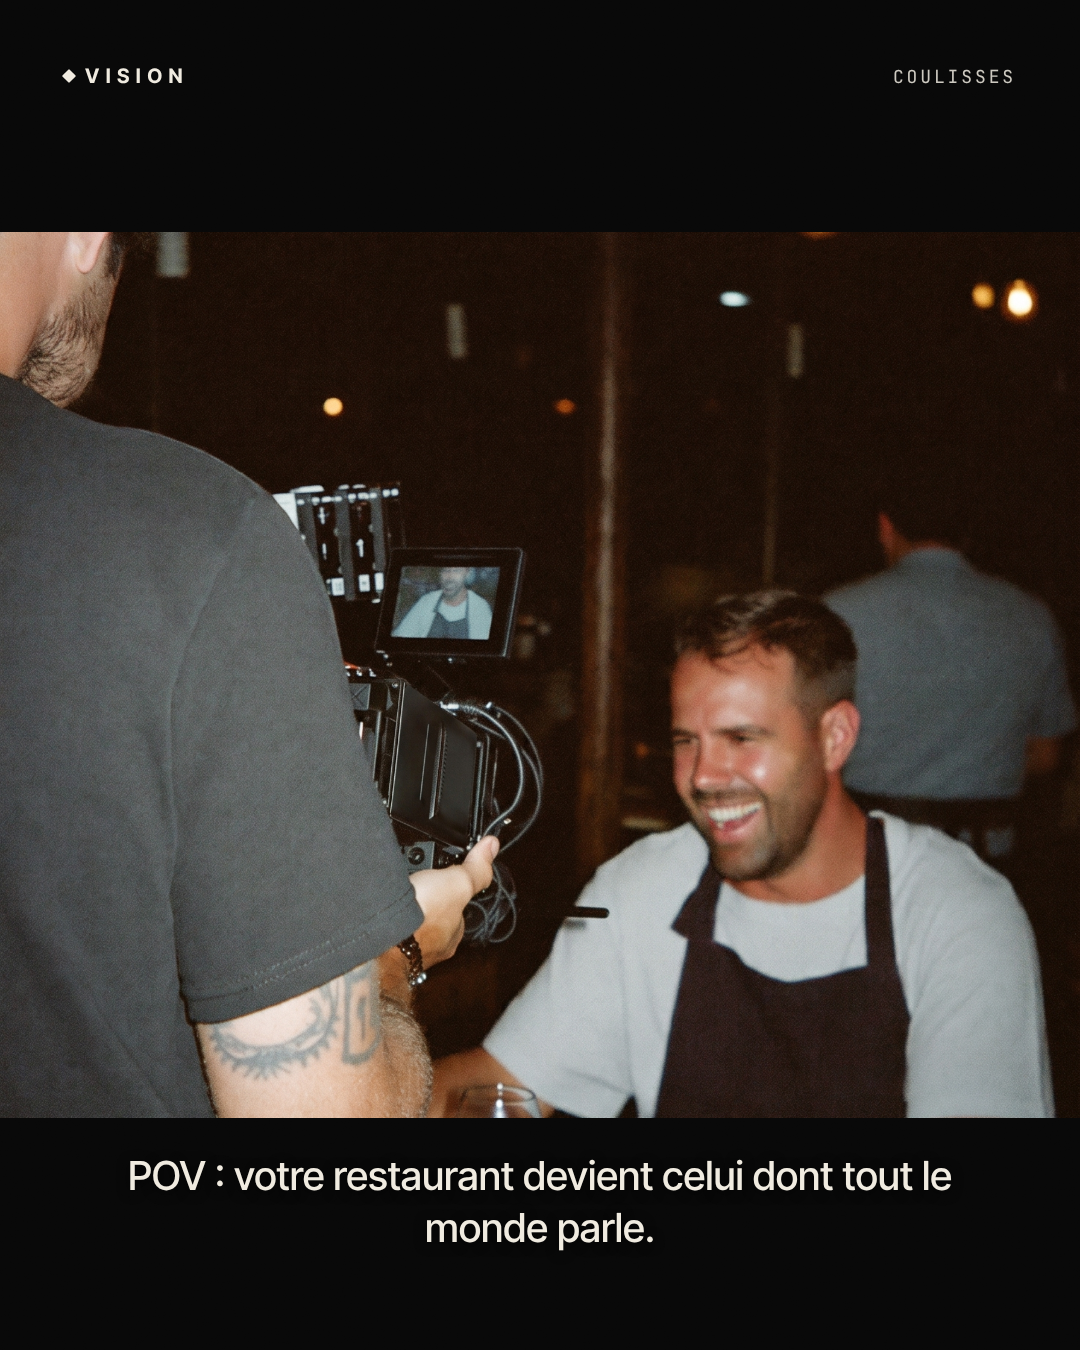
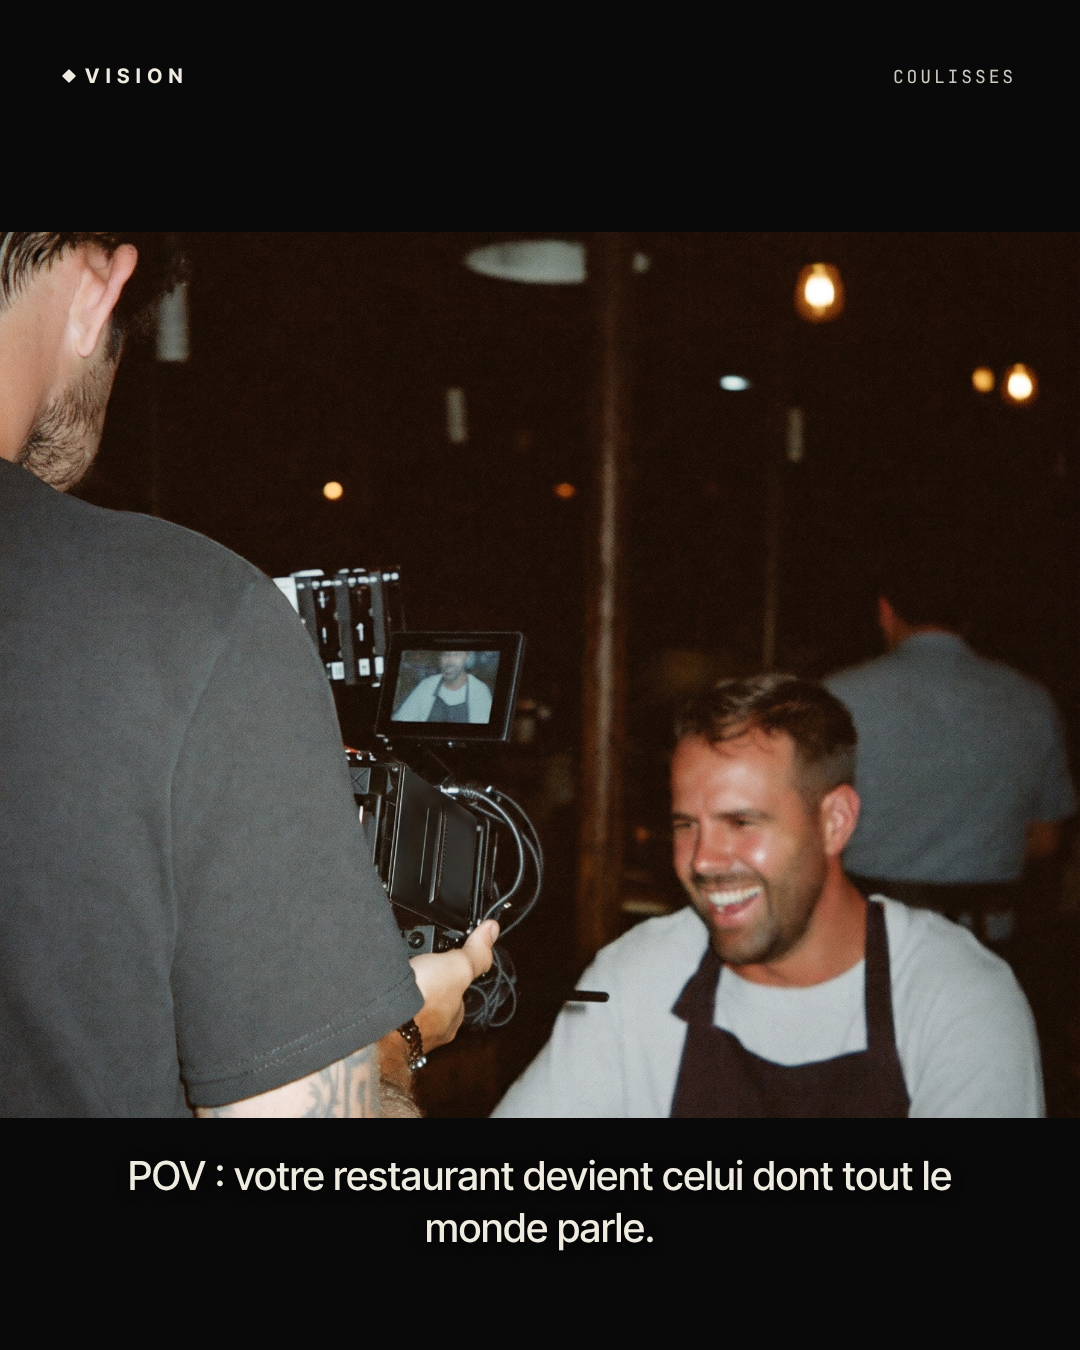
vision-agency: posts 01/15/16 finalisés, étude de cas sans nom de client
Claude-Session: https://claude.ai/code/session_01V1feumjpgTsp4ZvABkd22U

diff --git a/vision-agency/src/explainer/explainers.ts b/vision-agency/src/explainer/explainers.ts
@@ -35,14 +35,14 @@ export const explainers: {slug: string; props: ExplainerProps}[] = [
 		},
 	},
 	{
-		slug: 'Galata',
+		slug: 'Client',
 		props: {
 			kicker: 'Étude de cas · Fribourg',
 			audio: 'vo/03.wav',
 			cta: 'Le prochain, c’est vous',
 			clips: [V(2), V(9), V(15), V(1), V(2)],
 			sentences: [
-				'Galata, à Fribourg. Une cuisine excellente, un compte Instagram *silencieux.*',
+				'Un restaurant qu’on accompagne, à Fribourg. Une cuisine excellente, un compte Instagram *silencieux.*',
 				'Un tournage, quatre vidéos, trente jours d’accompagnement.',
 				'Portée *×16*. 12 000 personnes touchées. Visites de profil *×6*. Clics *×10*.',
 				'Au total, les restaurants qu’on accompagne ont touché *plus de 500 000 personnes.*',

diff --git a/vision-agency/LEGENDES-POSTS-PHOTO.md b/vision-agency/LEGENDES-POSTS-PHOTO.md
@@ -237,7 +237,7 @@ Votre place est peut-être encore libre : message privé.
 
 ## POST-16 — Uniquement
 
-Texte à l’image : DE BONNE ADRESSE À RÉFÉRENCE.
+Texte à l’image : De bonne adresse à référence. C’est le chemin qu’on fait avec vous.
 
 ```
 De bonne adresse à référence.
